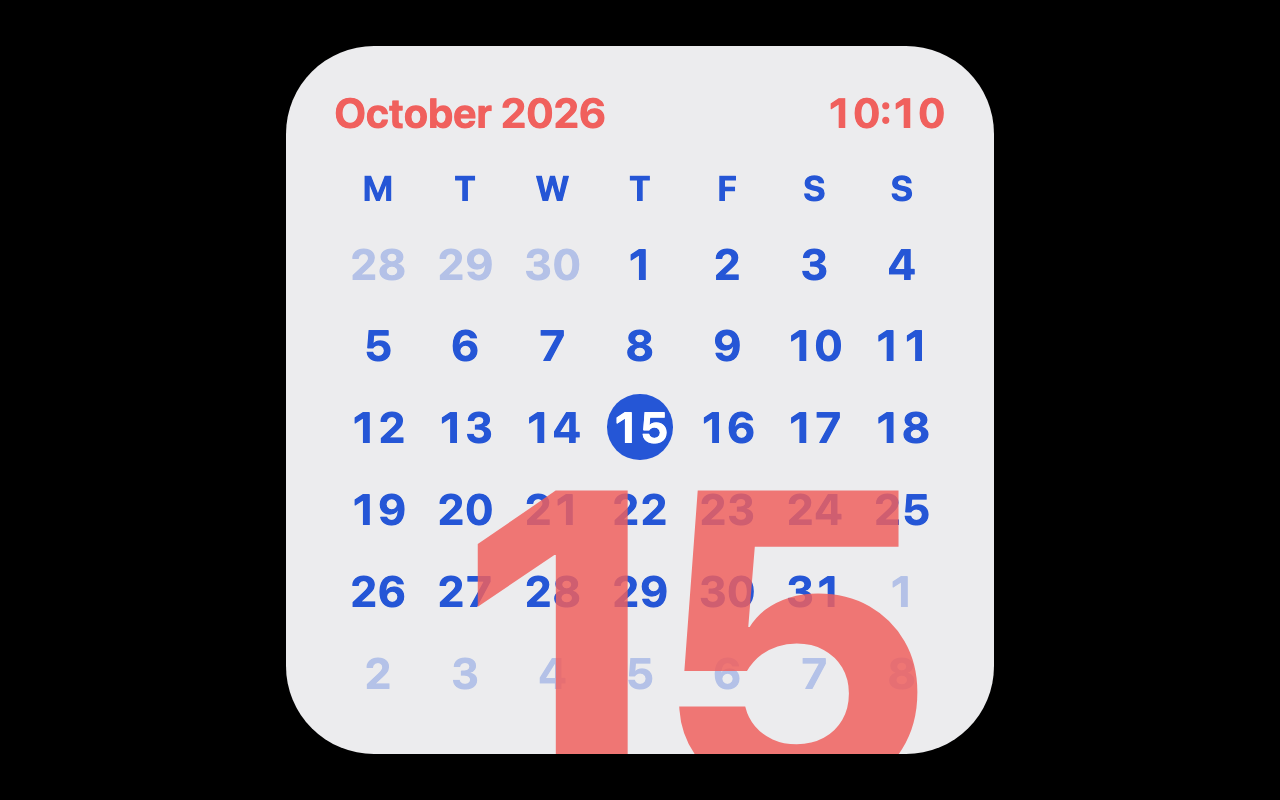
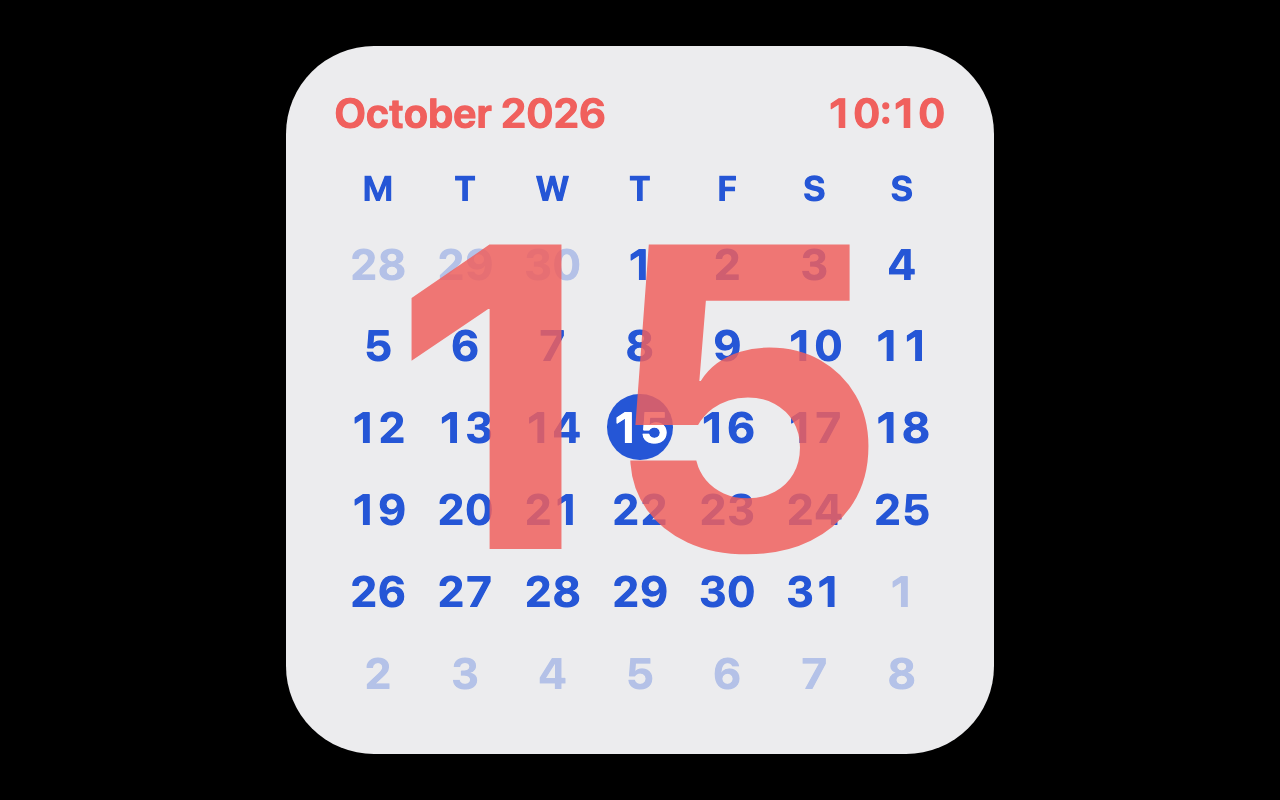
Calendar view: centre the large day number by its measured ink; hide automatic displays from the screensaver list

Changed region(s): [[0.3125, 0.2812, 0.7188, 0.9688]]

diff --git a/src/core/define-overview.js b/src/core/define-overview.js
@@ -38,7 +38,7 @@ import {esc} from './html.js';
  *                                         async subscriptions, keyed by the name render reads from `ctx.data[name]`
  *
  * -- behaviour (optional) --
- * @property {(ctx: OverviewHookContext) => void} [afterRender]   after a card-mode tile is created or patched; idempotent
+ * @property {(ctx: OverviewHookContext) => void} [afterRender]   after a card is created or patched, and when a screensaver layer is shown or patched; idempotent
  * @property {{every: number, align?: 'minute', run: (ctx: OverviewHookContext) => void}} [tick]   shared ticker, throttled to `every` ms; runs while the overview is on screen. `align: 'minute'` runs it when the wall-clock minute changes instead (a clock that shows minutes)
  * @property {(ctx: OverviewContext) => string} [tile]   optional compact summary: the card gets a `display: tile` option and renders this small face instead of the scene; tapping it opens the full overview as a one-off page-sized layer
  * @property {{card?: 'info'|'open'|'none'}} [tap]   card mode only: tap opens more-info of the entity (default), opens the full-screen view ('open', for overviews without an entity) or does nothing. A screensaver tap ALWAYS dismisses.
@@ -46,6 +46,7 @@ import {esc} from './html.js';
  * @property {(ctx: OverviewContext) => boolean} [autoWake]   called on every hass update while the screensaver is up; true dismisses it (no tap swallow)
  *
  * -- precedence among idle overviews (optional, `activation: 'idle'` only) --
+ * @property {boolean} [selectable]   default true. false = an automatic display: it works from its widget, is not offered in the editor's screensaver list, but can still be written in YAML
  * @property {number} [priority]   integer, default 0 (weather 0, cover art 10). When idle time starts a screensaver, the highest
  *                                         priority among the ELIGIBLE enabled idle entries wins; equal priorities take turns (round robin).
  *                                         An event overlay (a running timer) is above every idle entry whatever its priority
@@ -190,6 +191,11 @@ export function defineOverview(def) {
     throw new Error(`Overview ${o.type}: priority and eligible need activation: 'idle'.`);
   }
   o.priority = def.priority ?? 0;
+  // Automatic displays (the timer display, cover art) are not offered in the editor's screensaver list.
+  if (def.selectable !== undefined && typeof def.selectable !== 'boolean') {
+    throw new Error(`Overview ${o.type}: selectable must be true or false.`);
+  }
+  o.selectable = def.selectable ?? true;
   checkOptionSpecs(o.type, o.options);
 
   const overview = deepFreeze({

diff --git a/src/overviews/calendar_month/index.js b/src/overviews/calendar_month/index.js
@@ -50,6 +50,38 @@ function sceneHTML(ctx, mode) {
   );
 }
 
+/**
+ * Centre the ink of the big day number in the face. The box of a text is not its ink: "1" has a wide left bearing and
+ * every font puts digits a little high or low in the line. Measure the real glyph extents once per day and size and
+ * move the element by the difference. Cheap (one canvas measure), idempotent, and silent when canvas is not available.
+ */
+function centreBig(ctx) {
+  const big = ctx.el?.querySelector('.ov-cm-big');
+  if (!big || !big.isConnected) return;
+  const style = getComputedStyle(big);
+  const key = `${big.textContent}|${style.fontSize}|${style.fontFamily}|${style.fontWeight}`;
+  if (ctx.store.get('big') === key) return;
+  const size = parseFloat(style.fontSize);
+  if (!(size > 0)) return;
+  try {
+    const canvas = ctx.store.get('canvas') ?? document.createElement('canvas').getContext('2d');
+    ctx.store.set('canvas', canvas);
+    canvas.font = `${style.fontWeight} ${style.fontSize} ${style.fontFamily}`;
+    const m = canvas.measureText(big.textContent);
+    const inkCentreX = (m.actualBoundingBoxRight - m.actualBoundingBoxLeft) / 2;
+    const dx = m.width / 2 - inkCentreX;
+    const inkCentreUp = (m.actualBoundingBoxAscent - m.actualBoundingBoxDescent) / 2;
+    const boxCentreUp = (m.fontBoundingBoxAscent - m.fontBoundingBoxDescent) / 2;
+    const dy = inkCentreUp - boxCentreUp;
+    if (![dx, dy].every(Number.isFinite)) return;
+    big.style.setProperty('--cm-dx', `${(dx / size).toFixed(4)}em`);
+    big.style.setProperty('--cm-dy', `${(dy / size).toFixed(4)}em`);
+    ctx.store.set('big', key);
+  } catch {
+    // no canvas: the number stays where the font puts it
+  }
+}
+
 export default defineOverview({
   type: 'calendar_month',
   label: 'Month calendar',
@@ -70,11 +102,14 @@ export default defineOverview({
 
   render: (ctx) => sceneHTML(ctx, ctx.mode),
 
+  afterRender: (ctx) => centreBig(ctx),
+
   // The time changes with the minute; a new day redraws the whole month.
   tick: {
     every: 60000,
     align: 'minute',
     run(ctx) {
+      centreBig(ctx);
       const day = ctx.localParts(ctx.now()).day;
       if (ctx.store.get('day') !== undefined && ctx.store.get('day') !== day) {
         ctx.store.set('day', day);

diff --git a/src/controller/screensaver.js b/src/controller/screensaver.js
@@ -570,6 +570,7 @@ export const screensaverMixin = {
       covered: false,
       store: new Map()
     };
+    this._screensaverAfterRender(); // an overview that fixes up its DOM does it before the first second is over
     ss.idle.configure({timeout: this._screensaverTimeoutNow()});
   },
 
@@ -675,6 +676,24 @@ export const screensaverMixin = {
     const next = current.cloneNode(false);
     next.innerHTML = scene;
     this._patchNode(current, next, true); // the controller's own DOM patcher: keeps focus, no flicker
+    this._screensaverAfterRender();
+  },
+
+  /** The overview's `afterRender` hook for the layer that is up (the same one a card runs after each render). */
+  _screensaverAfterRender() {
+    const active = this._screensaver?.active;
+    const hook = active?.entry.overview.afterRender;
+    if (!hook) return;
+    try {
+      hook({
+        ...this._screensaverContext(active.entry),
+        el: active.layer.querySelector('.ov'),
+        requestRender: () => this._screensaverRender(true),
+        store: active.store
+      });
+    } catch (error) {
+      console.error('[houseview] overview afterRender failed', error);
+    }
   },
 
   /**

diff --git a/src/overviews/calendar_month/style.css b/src/overviews/calendar_month/style.css
@@ -95,20 +95,22 @@
   color: #fff;
 }
 
-/* Today's number, huge, translucent, over the lower right of the grid. */
+/* Today's number, huge, translucent, centred in the middle of the face. The offsets --cm-dx and --cm-dy are set by the
+   tick hook from the real ink of the digits (a font's side bearings and ascent would otherwise leave "1" off centre). */
 .ov-cm-big {
   position: absolute;
-  right: 13cqmin;
-  bottom: -7cqmin;
-  font-size: 80cqmin;
+  inset: 0;
+  display: grid;
+  place-items: center;
+  font-size: 72cqmin;
   font-weight: 800;
-  line-height: 0.82;
-  letter-spacing: -0.04em;
+  line-height: 1;
+  letter-spacing: 0;
   color: var(--ov-cm-red);
   opacity: 0.84;
+  transform: translate(var(--cm-dx, 0), var(--cm-dy, 0));
   pointer-events: none;
 }
 .ov-cm-big[data-len='2'] {
-  right: 10cqmin;
   font-size: 54cqmin;
 }

diff --git a/src/editor/screensaver-form.js b/src/editor/screensaver-form.js
@@ -45,9 +45,11 @@ export const extraEntries = (config) =>
   Array.isArray(config.screensaver) ? config.screensaver.length - 1 : 0;
 
 export function screensaverSchema(hass, data) {
+  // Automatic displays (timer display, cover art) are not offered; one already written in YAML stays visible.
+  const offered = overviewList().filter((o) => o.selectable !== false || o.type === data.type);
   const typeOptions = [
     {value: '', label: t(hass, 'screensaver.none')},
-    ...overviewList().map((o) => ({value: o.type, label: t(hass, `${o.type}_overview.label`)}))
+    ...offered.map((o) => ({value: o.type, label: t(hass, `${o.type}_overview.label`)}))
   ];
   const schema = [{name: 'type', selector: {select: {mode: 'dropdown', options: typeOptions}}}];
   const overview = getOverview(data.type);

diff --git a/src/overviews/cover_art/index.js b/src/overviews/cover_art/index.js
@@ -44,6 +44,8 @@ export default defineOverview({
   label: 'Cover art',
   order: 30,
   entity: 'required',
+  // An automatic display: shown by its widget, not picked from the screensaver list.
+  selectable: false,
   domains: ['media_player'],
   strings,
 

diff --git a/src/overviews/timer/index.js b/src/overviews/timer/index.js
@@ -78,6 +78,8 @@ export default defineOverview({
   label: 'Timer display',
   order: 20,
   entity: 'required',
+  // An automatic display: shown by its widget, not picked from the screensaver list.
+  selectable: false,
   domains: ['timer'],
   strings,
 

diff --git a/docs/overviews/timer.md b/docs/overviews/timer.md
@@ -28,8 +28,8 @@ screensaver:
   entity: timer.kitchen_timer
 ```
 
-It can share the `screensaver` list with idle overviews (a weather scene that starts after 2 minutes, this display when
-a timer starts). If another screensaver is on screen when the timer starts, the timer display replaces it.
+It is an automatic display: it is not offered in the editor's screensaver list. (A `screensaver` entry of type `timer` written in
+YAML still works and can share the list with idle overviews, for example a weather scene that starts after 2 minutes.) If another screensaver is on screen when the timer starts, the timer display replaces it.
 
 | Option | Type | Default | Description |
 | --- | --- | --- | --- |

diff --git a/src/overviews/timer/README.md b/src/overviews/timer/README.md
@@ -32,8 +32,8 @@ screensaver:
   entity: timer.kitchen_timer
 ```
 
-It can share the `screensaver` list with idle overviews (a weather scene that starts after 2 minutes, this display when
-a timer starts). If another screensaver is on screen when the timer starts, the timer display replaces it.
+It is an automatic display: it is not offered in the editor's screensaver list. (A `screensaver` entry of type `timer` written in
+YAML still works and can share the list with idle overviews, for example a weather scene that starts after 2 minutes.) If another screensaver is on screen when the timer starts, the timer display replaces it.
 
 | Option | Type | Default | Description |
 | --- | --- | --- | --- |
